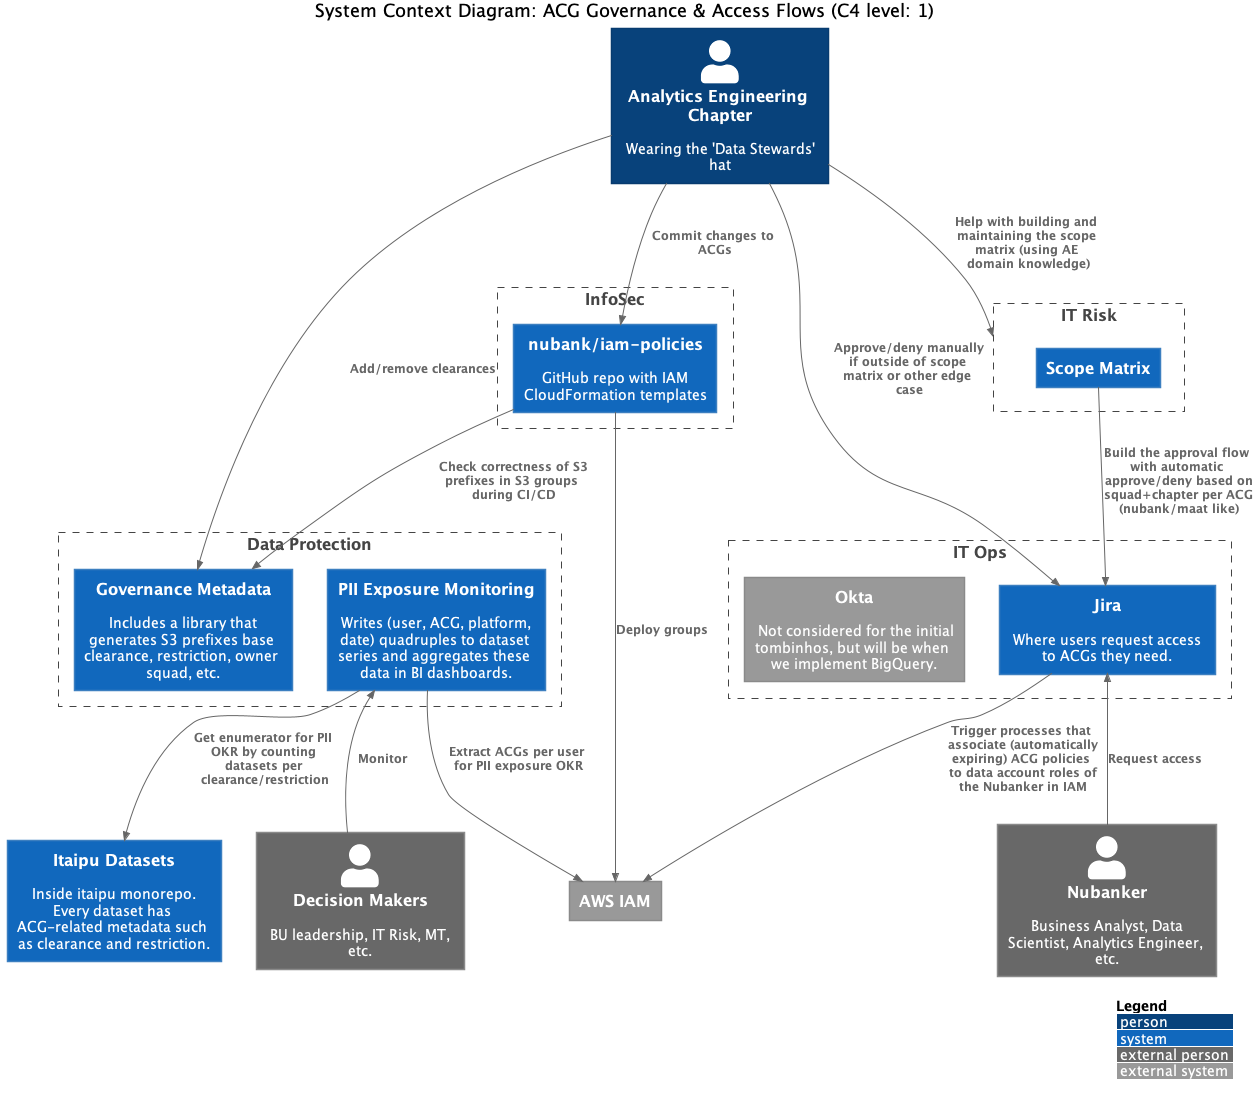
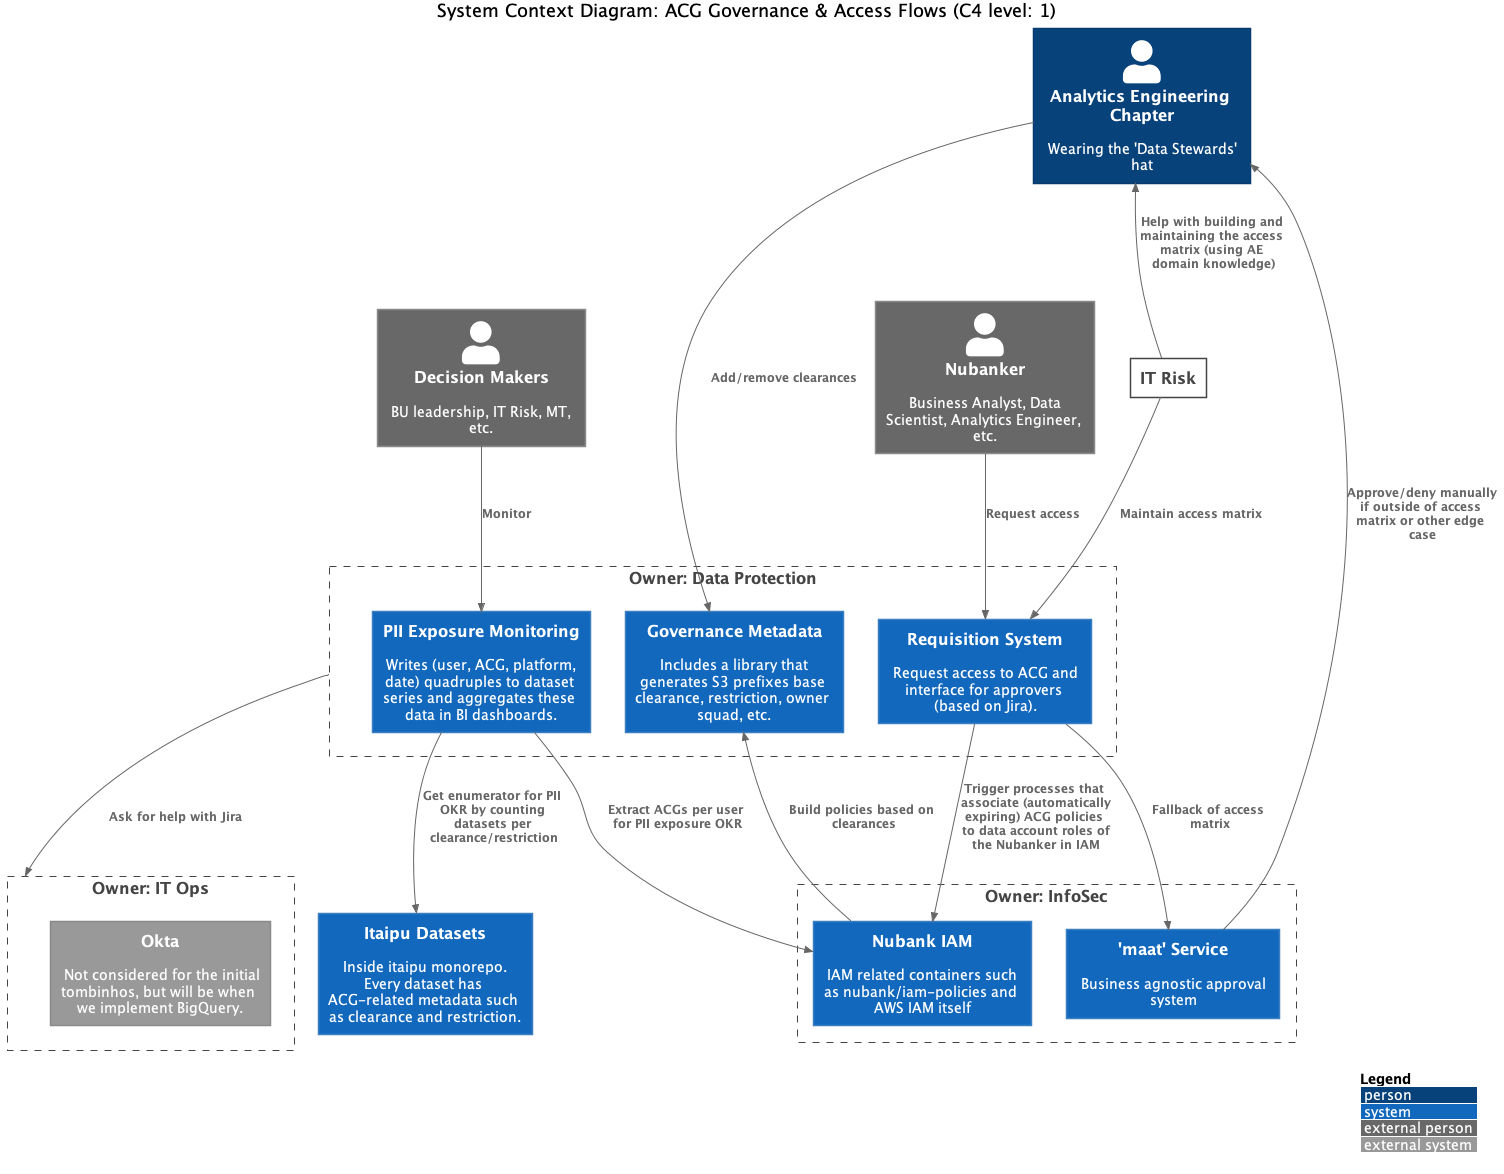
Include maat in GAC architecture diagrams (#508)
* Include maat in architecture diagrams

* Remove scope term

* Don't sketch it

Changed region(s): [[0.0, 0.2162, 1.0, 0.9882], [0.2476, 0.0, 0.8667, 0.247], [0.65, 0.4323, 0.8357, 0.4632]]

diff --git a/infrastructure/granular-access-controls/index.md b/infrastructure/granular-access-controls/index.md
@@ -63,9 +63,14 @@ They interact with systems owned by all aforementioned squads in this subgraph.
 
 ### Changelog
 
-#### 2021-03-05 
+#### 2021-03-25
 
-- First iteration of architecture diagrams ahead of the Data BU All-hands presentation
+- Added the
+  [business agnostic approval endpoint of the `maat` service](https://docs.google.com/document/d/1Ouwf9mjdqG2U4DTWsfrZ78TS11igwiotIrW0XDfjKCQ/edit).
+
+#### 2021-03-05
+
+- First iteration of architecture diagrams ahead of the Data BU All-hands presentation.
 
 ### Contributing to Diagrams
 
